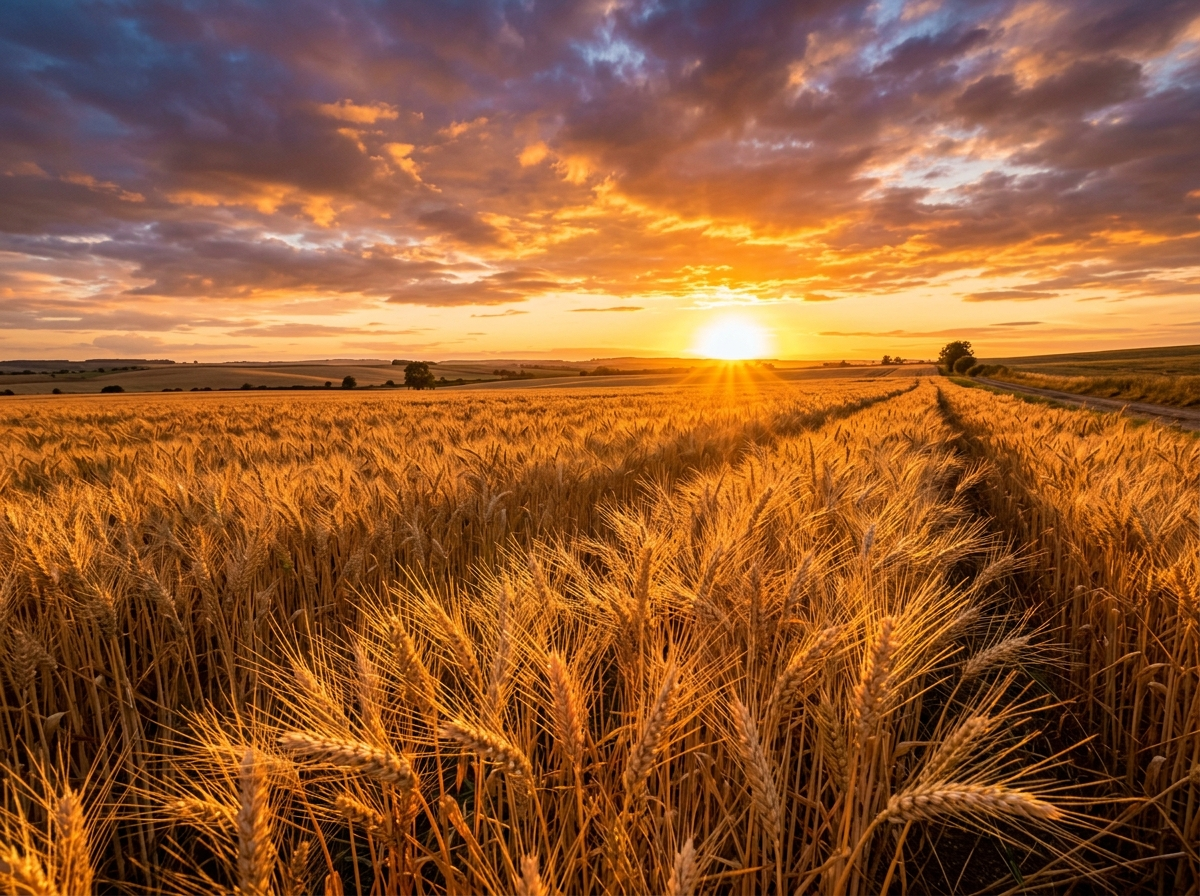
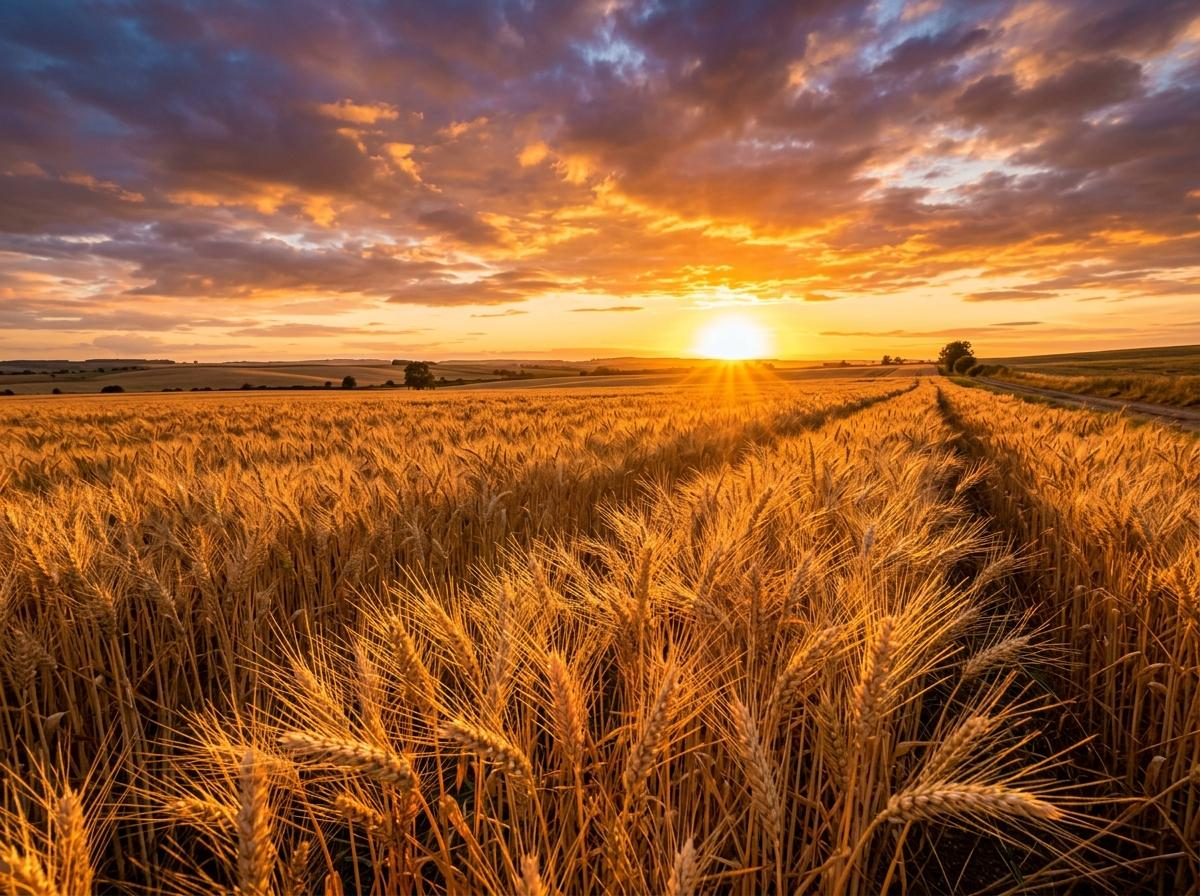
Rendimiento: code-splitting con React.lazy, layout persistente con Suspense y compresion de imagen

diff --git a/src/App.jsx b/src/App.jsx
@@ -1,34 +1,41 @@
- /* eslint-disable */
+/* eslint-disable */
+import { Suspense, lazy } from 'react';
 import { BrowserRouter, Routes, Route, Navigate } from 'react-router-dom';
 import { AuthProvider, useAuth } from './context/AuthContext';
 import { ProtectedRoute } from './components/common/ProtectedRoute';
 import { AdminLayout } from './components/layout/AdminLayout';
 import { SellerLayout } from './components/layout/SellerLayout';
-import { LoginPage } from './pages/auth/LoginPage';
+import { PageLoader } from './components/common/PageLoader';
 
-// Admin Pages (Organizadas en carpetas individuales)
-import { AdminHomePage } from './pages/admin/AdminHomePage/AdminHomePage';
-import { AdminDashboardPage } from './pages/admin/AdminDashboard/AdminDashboard';
-import { ContactsPage } from './pages/admin/ContactsPage/ContactsPage';
-import { CompaniesPage } from './pages/admin/CompaniesPage/CompaniesPage';
-import { OpportunitiesPage } from './pages/admin/OpportunitiesPage/OpportunitiesPage';
-import { TasksPage } from './pages/admin/TasksPage/TasksPage';
-import { ProductsPage } from './pages/admin/ProductsPage/ProductsPage';
-import { ObjectivesPage } from './pages/admin/ObjectivesPage/ObjectivesPage';
-import { RoadmapsPage } from './pages/admin/RoadmapsPage/RoadmapsPage';
-import { CampaignsPage } from './pages/admin/CampaignsPage/CampaignsPage';
-import { ActivitiesPage } from './pages/admin/ActivitiesPage/ActivitiesPage';
-import { UsersPage } from './pages/admin/UsersPage/UsersPage';
-import { ProfilePage } from './pages/admin/ProfilePage/ProfilePage';
-import { ServiceOrdersPage } from './pages/admin/ServiceOrdersPage/ServiceOrdersPage';
-import { EmployeesPage } from './pages/admin/EmployeesPage/EmployeesPage';
+const lazyPage = (importFn, name) =>
+  lazy(() => importFn().then((mod) => ({ default: mod[name] || mod.default })));
 
-// Seller Portal Pages (Organizadas en carpetas individuales)
-import { SellerDashboardPage } from './pages/seller/SellerDashboardPage/SellerDashboardPage';
-import { SellerRoadmapPage } from './pages/seller/SellerRoadmapPage/SellerRoadmapPage';
-import { SellerActivitiesPage } from './pages/seller/SellerActivitiesPage/SellerActivitiesPage';
-import { SellerTasksPage } from './pages/seller/SellerTasksPage/SellerTasksPage';
-import { SellerPromotionsPage } from './pages/seller/SellerPromotionsPage/SellerPromotionsPage';
+// Auth Page (Lazy loaded)
+const LoginPage = lazyPage(() => import('./pages/auth/LoginPage'), 'LoginPage');
+
+// Admin Pages (Lazy loaded por demanda con code-splitting)
+const AdminHomePage = lazyPage(() => import('./pages/admin/AdminHomePage/AdminHomePage'), 'AdminHomePage');
+const AdminDashboardPage = lazyPage(() => import('./pages/admin/AdminDashboard/AdminDashboard'), 'AdminDashboardPage');
+const ContactsPage = lazyPage(() => import('./pages/admin/ContactsPage/ContactsPage'), 'ContactsPage');
+const CompaniesPage = lazyPage(() => import('./pages/admin/CompaniesPage/CompaniesPage'), 'CompaniesPage');
+const OpportunitiesPage = lazyPage(() => import('./pages/admin/OpportunitiesPage/OpportunitiesPage'), 'OpportunitiesPage');
+const TasksPage = lazyPage(() => import('./pages/admin/TasksPage/TasksPage'), 'TasksPage');
+const ProductsPage = lazyPage(() => import('./pages/admin/ProductsPage/ProductsPage'), 'ProductsPage');
+const ObjectivesPage = lazyPage(() => import('./pages/admin/ObjectivesPage/ObjectivesPage'), 'ObjectivesPage');
+const RoadmapsPage = lazyPage(() => import('./pages/admin/RoadmapsPage/RoadmapsPage'), 'RoadmapsPage');
+const CampaignsPage = lazyPage(() => import('./pages/admin/CampaignsPage/CampaignsPage'), 'CampaignsPage');
+const ActivitiesPage = lazyPage(() => import('./pages/admin/ActivitiesPage/ActivitiesPage'), 'ActivitiesPage');
+const UsersPage = lazyPage(() => import('./pages/admin/UsersPage/UsersPage'), 'UsersPage');
+const ProfilePage = lazyPage(() => import('./pages/admin/ProfilePage/ProfilePage'), 'ProfilePage');
+const ServiceOrdersPage = lazyPage(() => import('./pages/admin/ServiceOrdersPage/ServiceOrdersPage'), 'ServiceOrdersPage');
+const EmployeesPage = lazyPage(() => import('./pages/admin/EmployeesPage/EmployeesPage'), 'EmployeesPage');
+
+// Seller Portal Pages (Lazy loaded por demanda con code-splitting)
+const SellerDashboardPage = lazyPage(() => import('./pages/seller/SellerDashboardPage/SellerDashboardPage'), 'SellerDashboardPage');
+const SellerRoadmapPage = lazyPage(() => import('./pages/seller/SellerRoadmapPage/SellerRoadmapPage'), 'SellerRoadmapPage');
+const SellerActivitiesPage = lazyPage(() => import('./pages/seller/SellerActivitiesPage/SellerActivitiesPage'), 'SellerActivitiesPage');
+const SellerTasksPage = lazyPage(() => import('./pages/seller/SellerTasksPage/SellerTasksPage'), 'SellerTasksPage');
+const SellerPromotionsPage = lazyPage(() => import('./pages/seller/SellerPromotionsPage/SellerPromotionsPage'), 'SellerPromotionsPage');
 
 import './styles/global.css';
 
@@ -45,7 +52,9 @@ const AppRoutes = () => {
           isAuthenticated ? (
             <Navigate to={userRole === 'admin' ? '/admin/home' : '/seller/dashboard'} replace />
           ) : (
-            <LoginPage onLoginSuccess={(userData, opts) => login(userData, opts)} />
+            <Suspense fallback={<PageLoader />}>
+              <LoginPage onLoginSuccess={(userData, opts) => login(userData, opts)} />
+            </Suspense>
           )
         }
       />

diff --git a/src/components/common/PageLoader.jsx b/src/components/common/PageLoader.jsx
@@ -1,0 +1,27 @@
+export const PageLoader = () => (
+  <div style={{
+    display: 'flex',
+    flexDirection: 'column',
+    alignItems: 'center',
+    justifyContent: 'center',
+    minHeight: '300px',
+    width: '100%',
+    color: 'var(--text-secondary, #64748b)',
+    fontSize: '0.95rem',
+    gap: '12px',
+    padding: '40px 20px'
+  }}>
+    <div style={{
+      width: '28px',
+      height: '28px',
+      border: '3px solid rgba(28, 58, 94, 0.15)',
+      borderTopColor: '#1c3a5e',
+      borderRadius: '50%',
+      animation: 'agroros-spin 0.7s linear infinite'
+    }} />
+    <span>Cargando contenido…</span>
+    <style>{`@keyframes agroros-spin { to { transform: rotate(360deg); } }`}</style>
+  </div>
+);
+
+export default PageLoader;

diff --git a/src/components/layout/SellerLayout.jsx b/src/components/layout/SellerLayout.jsx
@@ -1,7 +1,9 @@
+import { Suspense } from 'react';
 import { Outlet } from 'react-router-dom';
 import { SellerSidebar } from './SellerSidebar';
 import { SellerTopBar } from './SellerTopBar';
 import { useMobileNav } from './mobileNav';
+import { PageLoader } from '../common/PageLoader';
 import './AdminLayout.css';
 
 export const SellerLayout = () => {
@@ -13,7 +15,9 @@ export const SellerLayout = () => {
       <div className="admin-layout__main">
         <SellerTopBar />
         <main className="admin-layout__content">
-          <Outlet />
+          <Suspense fallback={<PageLoader />}>
+            <Outlet />
+          </Suspense>
         </main>
       </div>
     </div>

diff --git a/src/components/layout/AdminLayout.jsx b/src/components/layout/AdminLayout.jsx
@@ -1,7 +1,9 @@
+import { Suspense } from 'react';
 import { Outlet } from 'react-router-dom';
 import { Sidebar } from './Sidebar';
 import { TopBar } from './TopBar';
 import { useMobileNav } from './mobileNav';
+import { PageLoader } from '../common/PageLoader';
 import './AdminLayout.css';
 
 export const AdminLayout = () => {
@@ -13,7 +15,9 @@ export const AdminLayout = () => {
       <div className="admin-layout__main">
         <TopBar />
         <main className="admin-layout__content">
-          <Outlet />
+          <Suspense fallback={<PageLoader />}>
+            <Outlet />
+          </Suspense>
         </main>
       </div>
     </div>
